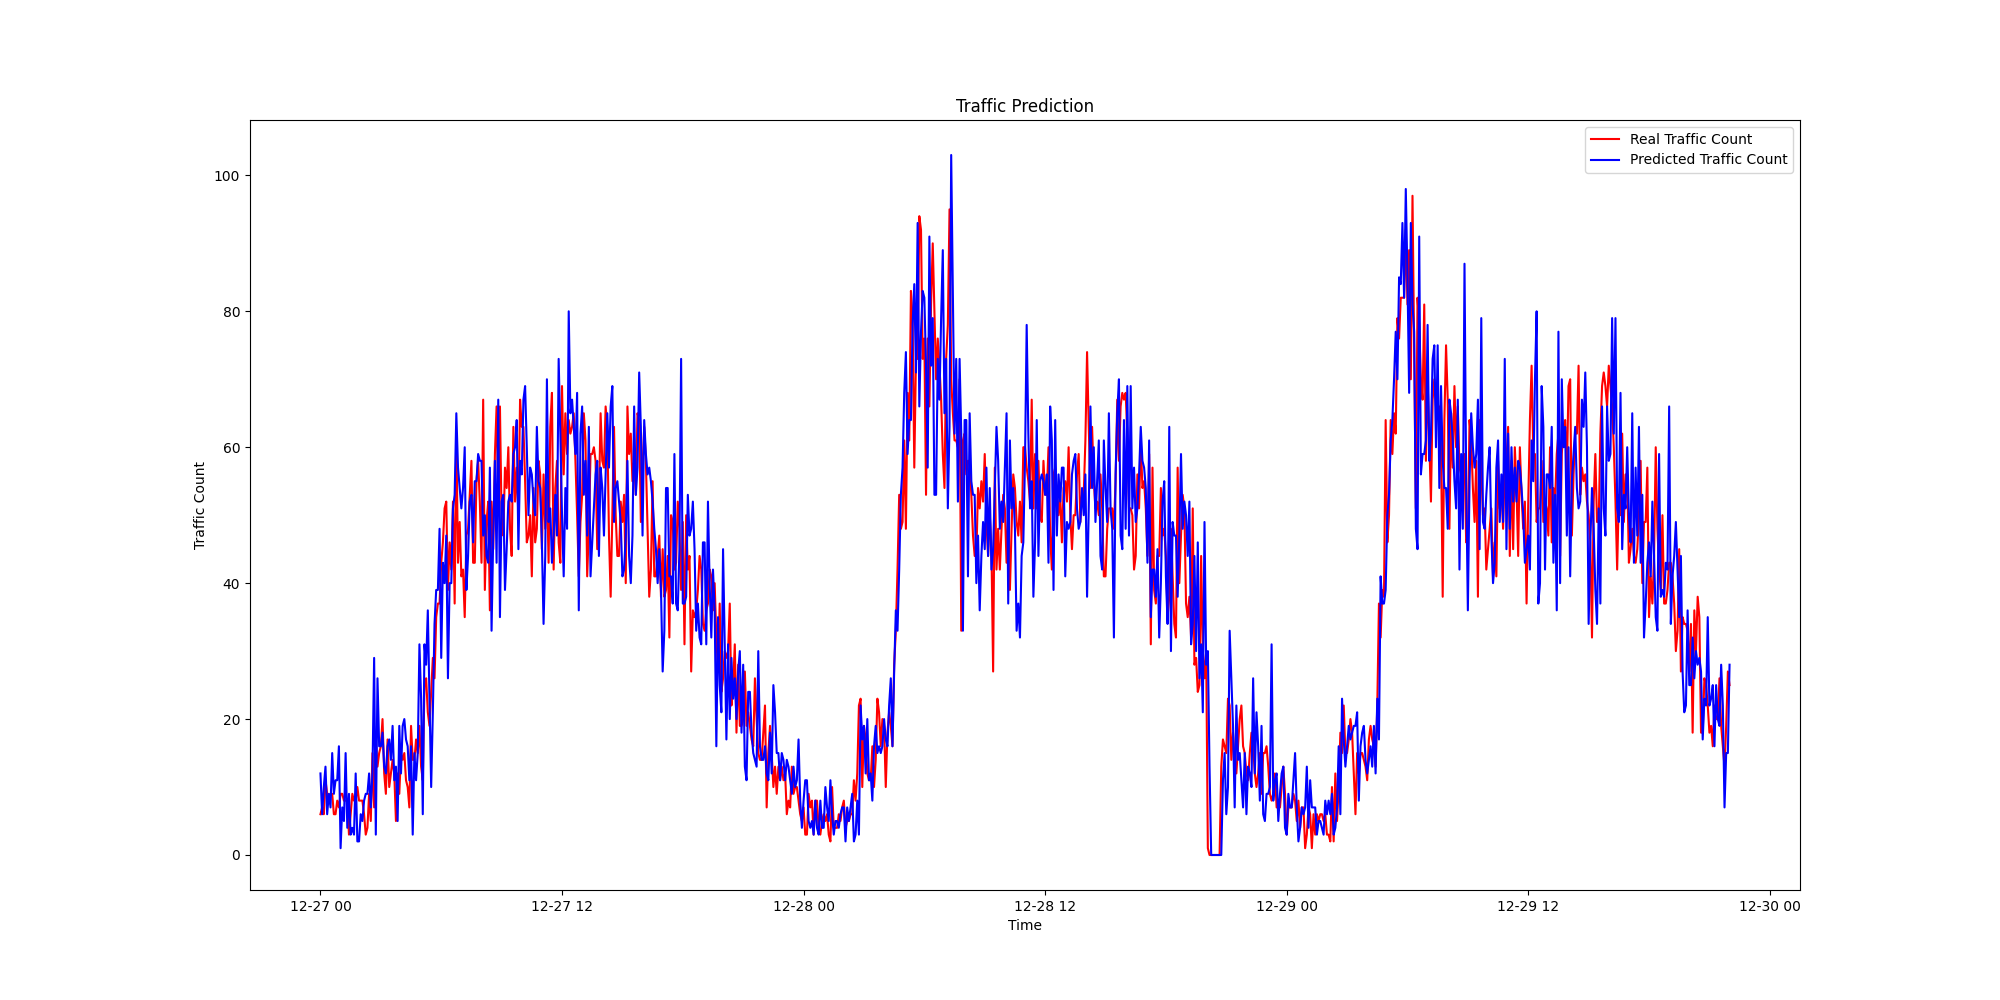
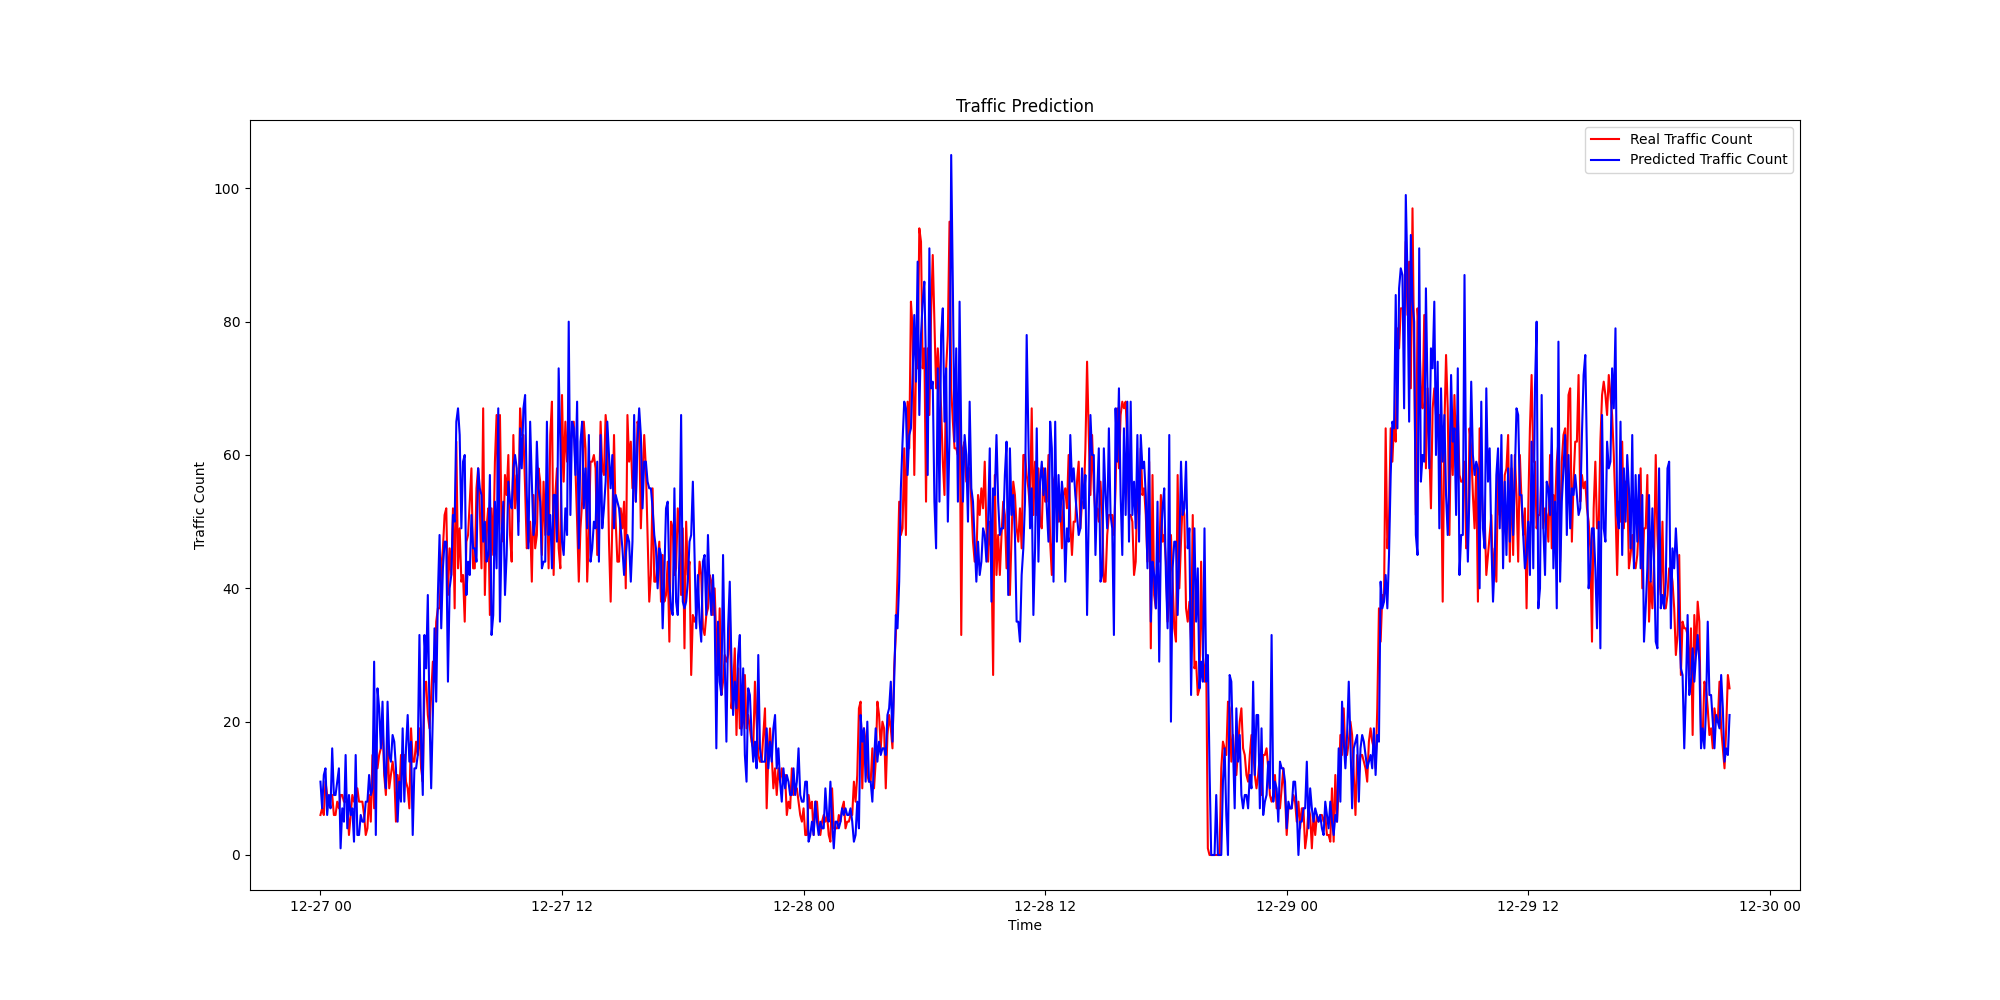
update: Decision Tree.py
update plot function

diff --git a/Decision Tree.py b/Decision Tree.py
@@ -5,11 +5,11 @@ from sklearn.metrics import mean_squared_error, r2_score
 from sklearn.tree import DecisionTreeRegressor
 import matplotlib.pyplot as plt
 
-file_path = '/content/drive/MyDrive/temp/train27303.csv'
+file_path = 'D:/Code/Vigilant-VGG16/train27303.csv'
 time_step = 24
-training_rate = 0.8
 
-def plot(data, y_test, test_predict, train_size, time_step = time_step):
+
+def plot(test_data, y_test, test_predict):
     mse = mean_squared_error(y_test, test_predict)
     rmse = np.sqrt(mse)
     r2 = r2_score(y_test, test_predict)
@@ -18,63 +18,64 @@ def plot(data, y_test, test_predict, train_size, time_step = time_step):
     print(f'RMSE: {rmse}')
     print(f'R²: {r2}')
 
-    plt.figure(figsize=(15, 7))
+    plt.figure(figsize=(20, 10))
 
-    start_date = pd.to_datetime('2015-12-23')
-    end_date = pd.to_datetime('2015-12-26')
-    mask = (data['timestamp'] >= start_date) & (data['timestamp'] <= end_date)
-    filtered_data = data.loc[mask]
+    if len(test_data['timestamp']) > len(y_test):
+        test_data = test_data.iloc[:len(y_test)]
 
-    test_indices = np.where(mask.values)[0]
-    filtered_y_test = y_test[test_indices - train_size - time_step + 1]
-    filtered_test_predict = test_predict[test_indices - train_size - time_step + 1]
-
-    plt.plot(filtered_data['timestamp'], filtered_y_test, label='Real Traffic Count', color='red')
-    plt.plot(filtered_data['timestamp'], filtered_test_predict, label='Predicted Traffic Count', color='blue')
+    plt.plot(test_data['timestamp'], y_test, label='Real Traffic Count', color='red')
+    plt.plot(test_data['timestamp'], test_predict, label='Predicted Traffic Count', color='blue')
     plt.xlabel('Time')
     plt.ylabel('Traffic Count')
-    plt.title('Traffic Prediction from 23/12 to 26/12')
+    plt.title('Traffic Prediction')
     plt.legend()
-    plt.show()
+    plt.savefig('decisionTree.png')
+    plt.close()
 
-def read_data(file_path):
+
+def read_data():
     data = pd.read_csv(file_path)
     data['timestamp'] = pd.to_datetime(data['timestamp'])
-    data = data[data['hourly_traffic_count'] != 0]
     data.sort_values('timestamp', inplace=True)
 
-    traffic_data = data['hourly_traffic_count'].values
+    train_data = data[data['timestamp'] < '2015-12-27']
+    test_data = data[(data['timestamp'] >= '2015-12-27') & (data['timestamp'] <= '2015-12-30')]
 
-    scale = MinMaxScaler(feature_range=(0, 1))
-    traffic_data = scale.fit_transform(traffic_data.reshape(-1, 1))
-    return data, traffic_data, scale
+    train_traffic = train_data['hourly_traffic_count'].values.reshape(-1, 1)
+    test_traffic = test_data['hourly_traffic_count'].values.reshape(-1, 1)
+
+    scaler = MinMaxScaler(feature_range=(0, 1))
+    train_scaled = scaler.fit_transform(train_traffic)
+    test_scaled = scaler.transform(test_traffic)
+
+    return test_data, train_scaled, test_scaled, scaler
+
 
 def create_dataset(dataset, time_step=1):
-    X, y = [], []
-    for i in range(len(dataset) - time_step - 1):
+    x, y = [], []
+    for i in range(len(dataset) - time_step):
         a = dataset[i:(i + time_step), 0]
-        X.append(a)
+        x.append(a)
         y.append(dataset[i + time_step, 0])
-    return np.array(X), np.array(y)
+    return np.array(x), np.array(y)
 
-def train(file_path):
-    data, traffic_data, scale = read_data(file_path)
-    X, y = create_dataset(traffic_data, time_step)
 
-    train_size = int(len(X) * training_rate)
-    X_train, X_test = X[0:train_size], X[train_size:len(X)]
-    y_train, y_test = y[0:train_size], y[train_size:len(y)]
+def train():
+    test_data, train_scaled, test_scaled, scaler = read_data()
+    x_train, y_train = create_dataset(train_scaled, time_step)
+    x_test, y_test = create_dataset(test_scaled, time_step)
 
     model = DecisionTreeRegressor()
-    model.fit(X_train, y_train)
+    model.fit(x_train, y_train)
 
-    test_predict = model.predict(X_test)
+    test_predict = model.predict(x_test)
 
-    test_predict = scale.inverse_transform(test_predict.reshape(-1, 1))
-    y_test = scale.inverse_transform(y_test.reshape(-1, 1))
+    test_predict = scaler.inverse_transform(test_predict.reshape(-1, 1))
+    y_test = scaler.inverse_transform(y_test.reshape(-1, 1))
 
-    return data, y_test, test_predict, train_size
+    return test_data, y_test, test_predict
+
 
 if __name__ == '__main__':
-    data, y_test, test_predict, train_size = train(file_path)
-    plot(data, y_test, test_predict, train_size)
+    test_data, y_test, test_predict = train()
+    plot(test_data, y_test, test_predict)

diff --git a/Plot.py b/Plot.py
@@ -1,0 +1,13 @@
+import matplotlib.pyplot as plt
+import pandas as pd
+
+data = pd.read_csv('train27303.csv')
+print(data)
+plt.figure(figsize=(20, 10))
+plt.plot(data['timestamp'], data['hourly_traffic_count'], label='hourly_traffic_count', color='green')
+plt.xlabel('Time')
+plt.ylabel('Traffic count')
+plt.title('Hourly traffic count overtime')
+plt.legend()
+plt.savefig('temp.png')
+plt.close()
